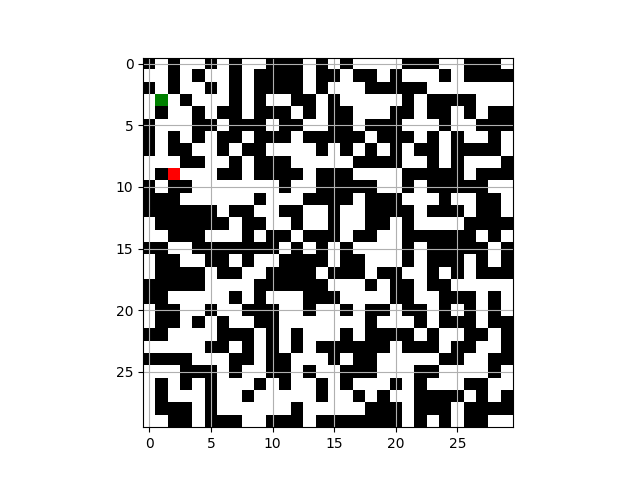
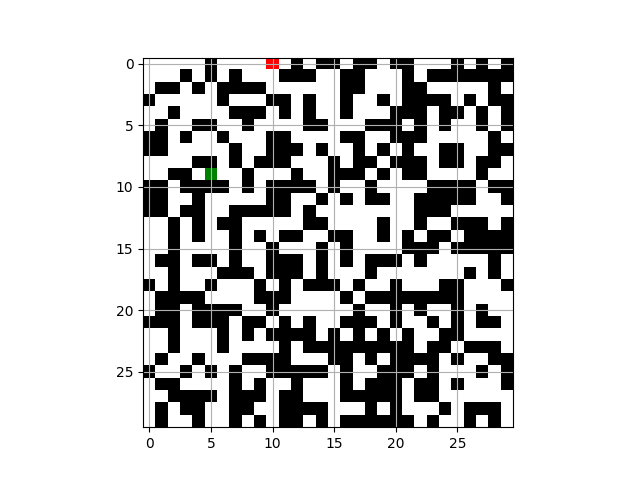
add_air

Changed region(s): [[0.2188, 0.125, 0.8125, 0.9062]]

diff --git a/main.py b/main.py
@@ -5,8 +5,8 @@ from matplotlib.colors import ListedColormap
 from matplotlib.colors import Normalize
 
 def main():
-    map_shape = (5, 5)
-    figure_name = "5_5"
+    map_shape = (30, 30)
+    figure_name = "30_30_add_air"
     config = {
         "population": 50,
         "num_gen": 2000,
@@ -14,8 +14,8 @@ def main():
         "parent_selection_type": "tournament", # "tournament"
         "K_tour": 2,
         "Xover": "single_point", # "single_point"
-        "mutation": "one_point", # "one_point", "random"
-        "mut_prob": 0.5, # 0.3, 0.1, 0.01
+        "mutation": "one_point", # "one_point", "random"(this is not easy to find feaible sol (can use lower mut rate))
+        "mut_prob": 0.6, # 0.6, 0.3, 0.1, 0.01
         "keep_elitism": 10,
     }
     ga_inst = MazeGenGA(map_shape, config)

diff --git a/MapGen.py b/MapGen.py
@@ -100,14 +100,17 @@ class MazeGenGA(pygad.GA):
             fit_val -= 2 * infeasible_pen
             return fit_val
 
+        # maze complexity
         # count the min len between start and goal
         dist = dijkstra(maze, start_coord, goal_coord)
         if dist == float('inf'):
             fit_val -= infeasible_pen
         else:
-            fit_val += dist
+            fit_val += 2 * dist
 
-        # maze complexity
+        # count number of air
+        air_num = np.count_nonzero(maze == 0)
+        fit_val += air_num
 
         return fit_val
 
